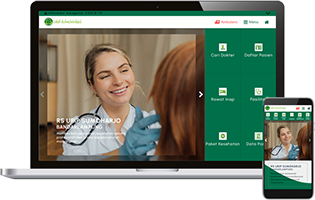
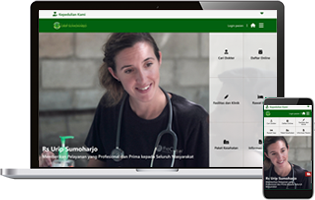
Updated RS Urip sumoharjo website

diff --git a/src/data/data.js b/src/data/data.js
@@ -1,13 +1,13 @@
 const projects = [
   {
     id: "azri001",
-    url: "https://rsuripsumoharjo-mockup.netlify.app/",
+    url: "https://rsuripsumoharjo-model.netlify.app/",
     type: "Website",
     title: "RS. Urip Sumoharjo",
     imageLink: "Web1",
     text: [
       "A website design for a local hospital in Bandar Lampung. Inspired by Mayo Clinic's website. A very simple design, easy-to-use, informative but not too crowded with too many useless details.",
-      " The core of this website design is ReactJS, supported by Formik, react-router-DOM, and Yup",
+      "The core of this website design is Next.JS, supported by Redux ToolkitFormik, Yup, React leaflet and Tailwinds",
     ],
     images: ["urip-website", "urip-phone"],
   },
